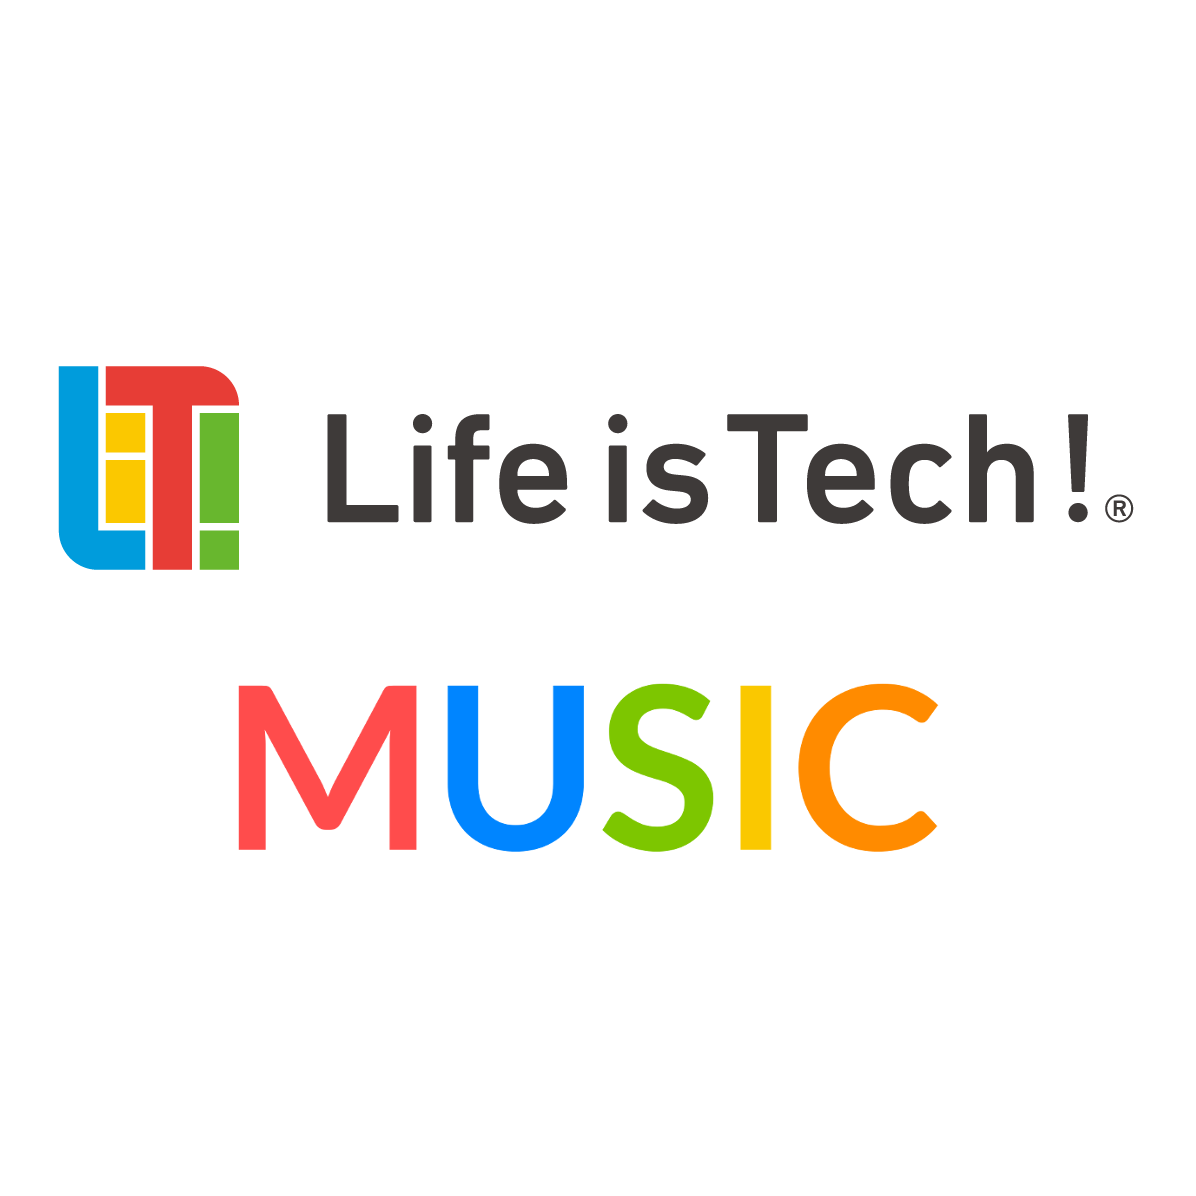
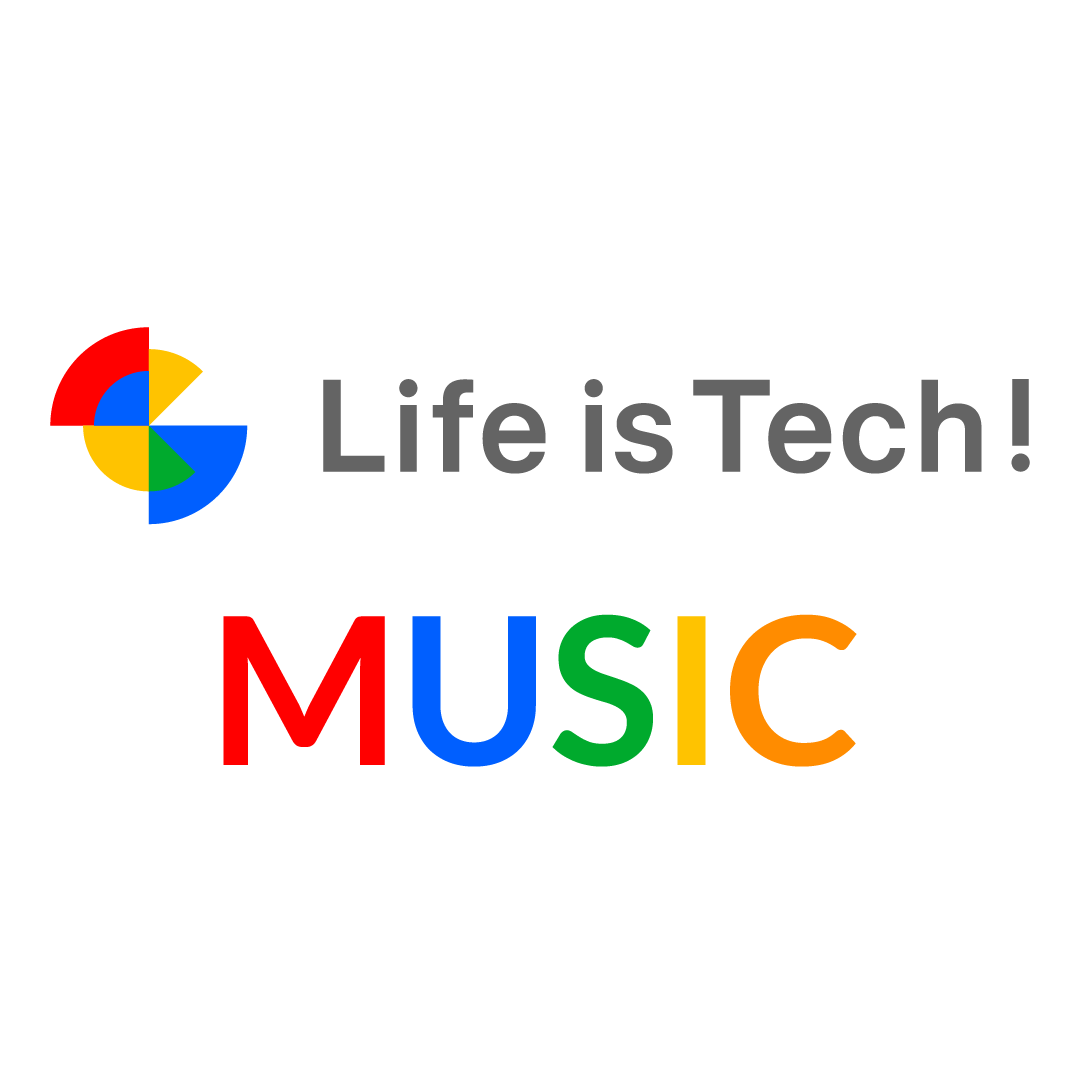
新ロゴ対応&トンマナ合わせ

diff --git a/src/scss/style.scss b/src/scss/style.scss
@@ -1,9 +1,9 @@
-$Red: #e63c35;
-$Yellow: #fac700;
-$Green: #67b62d;
-$Blue: #009bdb;
-$Orange: #ff8b22;
-$Purple: #bb39ff;
+$Red: #ff0000;
+$Yellow: #ffc300;
+$Green: #00aa2d;
+$Blue: #005fff;
+$Orange: #ff8c00;
+$Purple: #800080;
 
 $colors: $Red, $Yellow, $Green, $Blue, $Orange, $Purple;
 
@@ -57,49 +57,49 @@ $youtube-triangle-height: 50px;
 
 @keyframes animateLiTcolor {
   0% {
-    color: #e63c35;
+    color: $Red;
   }
   20% {
-    color: #fac700;
+    color: $Yellow;
   }
   40% {
-    color: #67b62d;
+    color: $Green;
   }
   60% {
-    color: #009bdb;
+    color: $Blue;
   }
   80% {
-    color: #ff8b22;
+    color: $Orange;
   }
   90% {
-    color: #bb39ff;
+    color: $Purple;
   }
   100% {
-    color: #e63c35;
+    color: $Red;
   }
 }
 
 @keyframes animateLiTBGcolor {
   0% {
-    background-color: #e63c35;
+    background-color: $Red;
   }
   20% {
-    background-color: #fac700;
+    background-color: $Yellow;
   }
   40% {
-    background-color: #67b62d;
+    background-color: $Green;
   }
   60% {
-    background-color: #009bdb;
+    background-color: $Blue;
   }
   80% {
-    background-color: #ff8b22;
+    background-color: $Orange;
   }
   90% {
-    background-color: #bb39ff;
+    background-color: $Purple;
   }
   100% {
-    background-color: #e63c35;
+    background-color: $Red;
   }
 }
 
@@ -156,38 +156,12 @@ body.loaded {
     width: 100%;
     opacity: 0.5;
   }
-  svg {
+  img {
     height: $title-height;
     position: absolute;
     top: 50%;
     left: 50%;
     transform: translate(-50%, -50%);
-    path {
-      fill: none;
-      stroke-width: 50;
-    }
-
-    .first,
-    .second {
-      stroke-dasharray: 100%;
-      stroke-dashoffset: 0;
-      --max: 100%;
-      animation-duration: 1.4s;
-      animation-timing-function: linear;
-      animation-iteration-count: infinite;
-      animation-direction: alternate;
-    }
-
-    .square {
-      --max: calc(100% - 50px);
-    }
-
-    .first {
-      animation-name: animFirst;
-    }
-    .second {
-      animation-name: animSecond;
-    }
   }
 }
 
@@ -536,7 +510,7 @@ footer {
 
 a:hover,
 a:focus {
-  color: #ff4c4c;
+  color: $Red;
 }
 a:hover {
   cursor: pointer;
@@ -549,7 +523,7 @@ a {
   transition: all 0.25s ease-out;
 }
 a {
-  color: #008cba;
+  color: $Blue;
   text-decoration: none;
   line-height: inherit;
 }
@@ -575,7 +549,7 @@ a {
     height: 100%;
   }
   .close-button {
-    color: #f00;
+    color: $Red;
     font-size: 1.5em;
     position: absolute;
     top: 1em;
@@ -808,21 +782,21 @@ a {
 .colorful,
 h2 {
   span:nth-child(6n + 1) {
-    color: #ff4c4c;
+    color: $Red;
   }
   span:nth-child(6n + 2) {
-    color: #0085ff;
+    color: $Blue;
   }
   span:nth-child(6n + 3) {
-    color: #7dc600;
+    color: $Green;
   }
   span:nth-child(6n + 4) {
-    color: #fac800;
+    color: $Yellow;
   }
   span:nth-child(6n + 5) {
-    color: #ff8b00;
+    color: $Orange;
   }
   span:nth-child(6n) {
-    color: #a278ff;
+    color: $Purple;
   }
 }

diff --git a/src/js/loading.js b/src/js/loading.js
@@ -15,12 +15,9 @@ Promise.resolve()
   )
   .then(
     () =>
-      new Promise((res) =>
-        paths[0].addEventListener("animationiteration", (e) => {
-          console.log(e);
-          if (e.elapsedTime % 4 < 2) res();
-        })
-      )
+      new Promise((res) => {
+        setTimeout(() => res(), 2000);
+      })
   )
   .then(
     () =>
